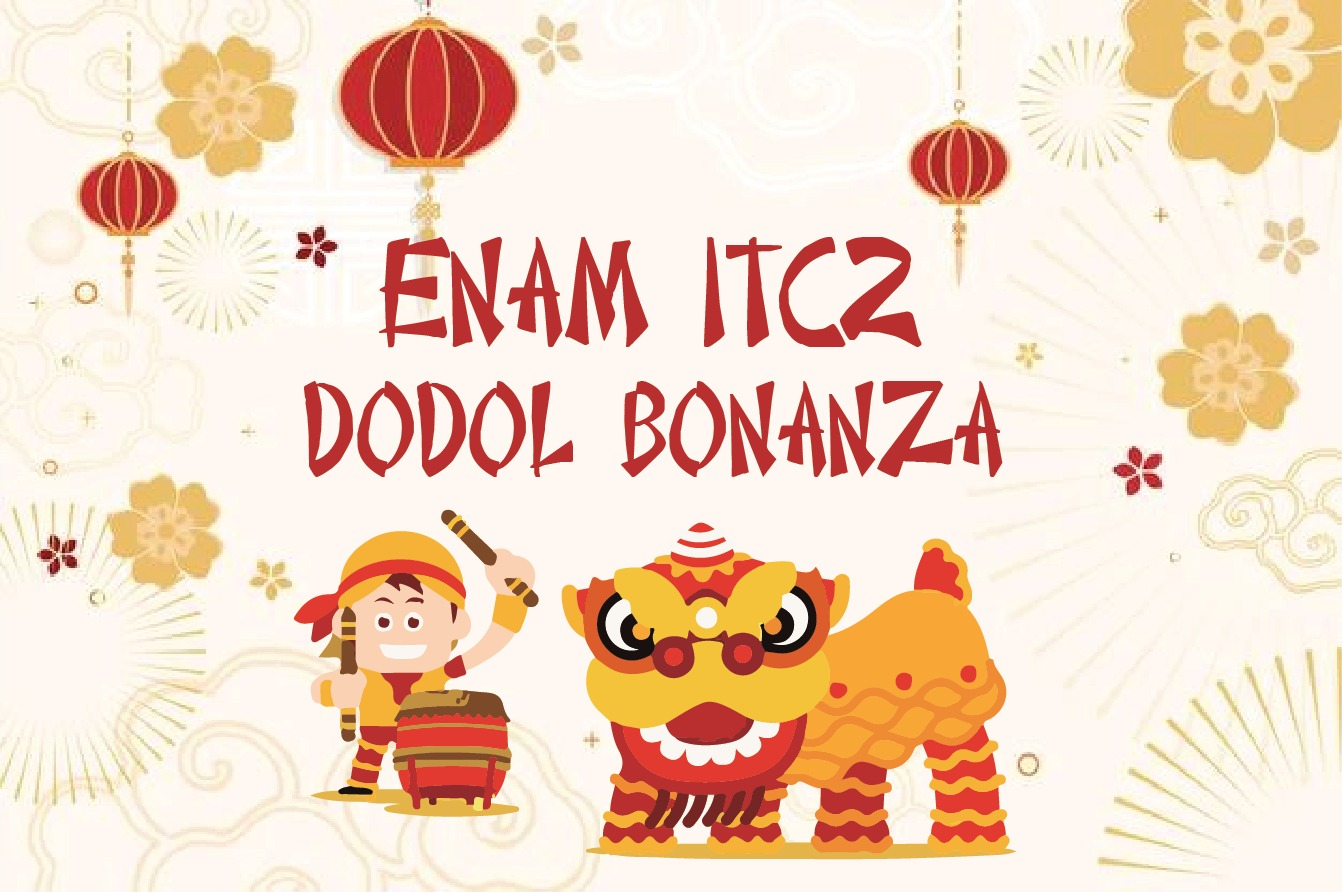
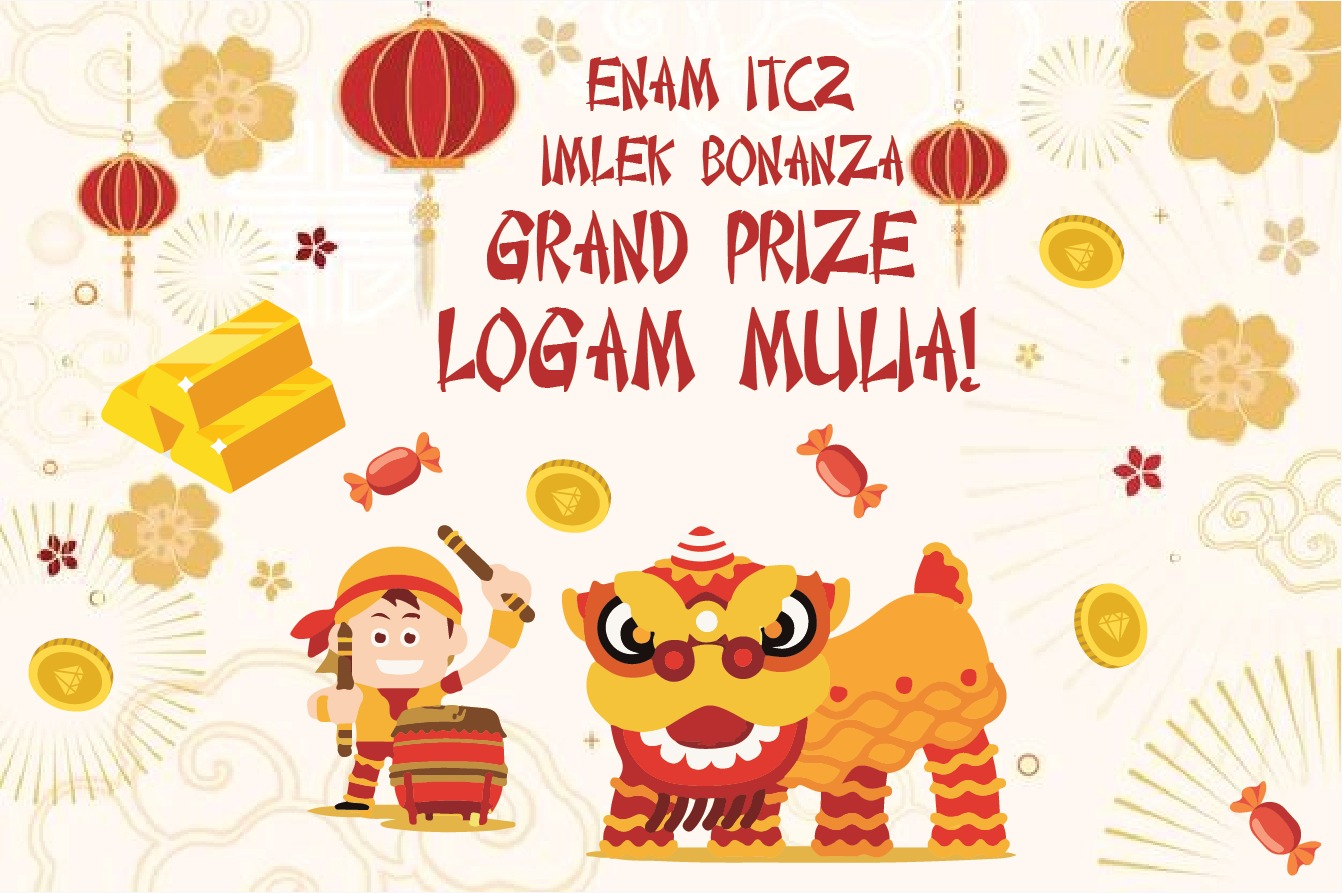
lm edisi imlek

diff --git a/profile.php b/profile.php
@@ -366,7 +366,7 @@ $ticket = 2*$totalorder['totalorder'] - $totalredeem['totalredeem'];
                 </div>
             </div>
             -->
-            <p style="font-size: 1.6rem; text-transform: none;">Setiap pembelian/checkout di web (order status: approved) dari tanggal 31 Januari 2022 akan mendapatkan 2 tiket yang bisa digunakan untuk bermain lucky draw*</p>
+            <p style="font-size: 1.6rem; text-transform: none;">Setiap pembelian/checkout di web (setelah order status: approved) dari tanggal 31 Januari 2022 akan mendapatkan 2 tiket yang bisa digunakan untuk memutar lucky draw*. <br> Raih kesempatan untuk memenangkan logam mulia spesial edisi imlek (0.1gr) bagi pemutar terbanyak* </p>
             <br>
 
             <p style="font-size: 1rem; text-transform: none;"> *syarat dan ketentuan berlaku dan selama persediaan masih ada </p>

diff --git a/index.php b/index.php
@@ -308,7 +308,7 @@ $badge = count($_SESSION['cart']);
                 </div>
             </div>
             -->
-            <p style="font-size: 1.6rem; text-transform: none;">Setiap pembelian/checkout di web (setelah order status: approved) dari tanggal 31 Januari 2022 akan mendapatkan 2 tiket yang bisa digunakan untuk bermain lucky draw*</p>
+            <p style="font-size: 1.6rem; text-transform: none;">Setiap pembelian/checkout di web (setelah order status: approved) dari tanggal 31 Januari 2022 akan mendapatkan 2 tiket yang bisa digunakan untuk memutar lucky draw*. <br> Raih kesempatan untuk memenangkan logam mulia spesial edisi imlek (0.1gr) bagi pemutar terbanyak* </p>
             <br>
 
             <p style="font-size: 1rem; text-transform: none;"> *syarat dan ketentuan berlaku dan selama persediaan masih ada </p>
